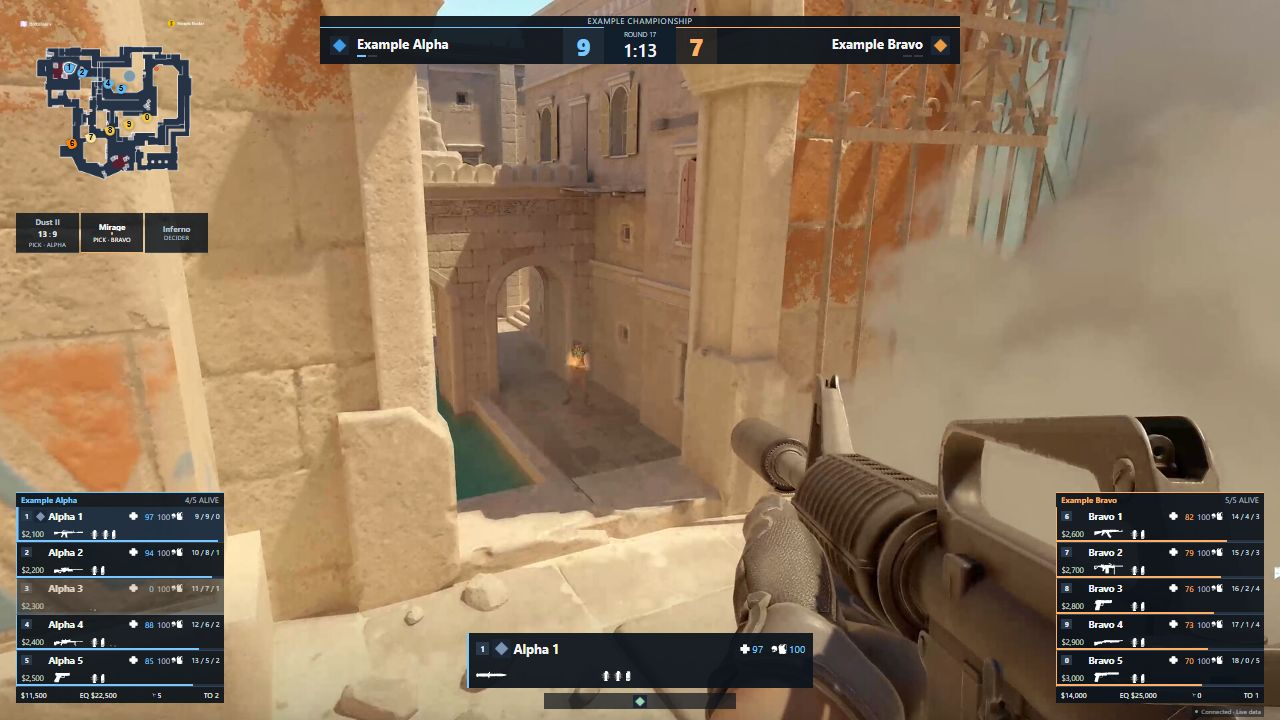
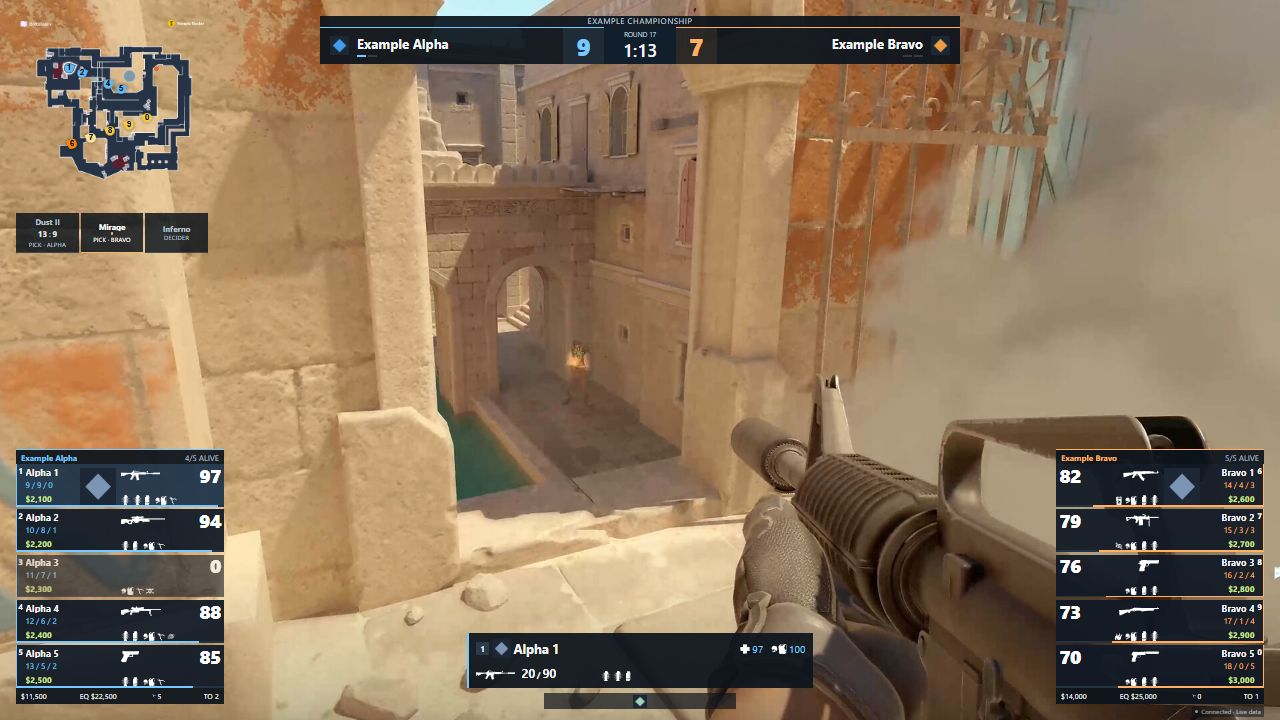
Mirror portrait player cards in HUD 0.4.9

Changed region(s): [[0.8125, 0.6111, 1.0, 0.9778], [0.0, 0.6111, 0.1875, 0.9778], [0.375, 0.9167, 0.4375, 0.9472]]

diff --git a/src/BasicHud/wwwroot/hud.css b/src/BasicHud/wwwroot/hud.css
@@ -61,35 +61,48 @@ html, body, #app { width: 100%; height: 100%; margin: 0; overflow: hidden; backg
 .history-round .status-icon { --icon-height: .75em; }
 .round-message { position: absolute; left: 37.5%; top: 13.518519%; width: 25%; height: 1.1em; background: var(--surface); text-align: center; font-size: .625em; line-height: 1.1; white-space: nowrap; overflow: hidden; text-overflow: ellipsis; }
 
-.roster { position: absolute; top: 68.333333%; width: 16.25%; height: 29.444444%; overflow: hidden; }
+.roster { position: absolute; top: 62.407407%; width: 16.25%; height: 35.37037%; overflow: hidden; }
 .roster.ct { left: 1.25%; }
 .roster.t { left: 82.5%; }
 .roster-heading { height: 1.145833em; padding: 0 .4em; display: flex; align-items: center; justify-content: space-between; gap: .6em; border-top: .1em solid var(--side); background: var(--surface); color: var(--side); }
 .roster-heading span { font-size: .625em; white-space: nowrap; overflow: hidden; text-overflow: ellipsis; }
 .roster-heading span:first-child { min-width: 0; font-weight: 700; }
 .roster-heading span:last-child { flex-shrink: 0; color: #afbdcd; }
-.live-player { position: relative; height: 2.8125em; padding: .15em .35em .2em; background: var(--surface); border-left: .13em solid var(--side); border-bottom: 1px solid #354253; }
-.live-player.is-observed { background: rgb(27 44 63 / 96%); box-shadow: inset .12em 0 var(--side); }
-.live-player-top, .live-player-bottom { height: 1.19em; display: grid; align-items: center; column-gap: .12em; min-width: 0; }
-.live-player-top { grid-template-columns: .85em 1em minmax(0, 1fr) 1.9em 2.25em 2.65em; }
-.live-player-top > *, .live-player-bottom > *, .observed-identity > *, .observed-loadout > * { min-width: 0; }
 .portrait-cell { display: grid; place-items: center; height: 100%; overflow: hidden; }
-.live-player-top .observer-slot { font-size: .55em; }
-.live-player-top .portrait { width: 1em; height: 1em; }
-.live-player-top .player-name { font-size: .75em; font-weight: 650; }
-.live-hp, .live-armor { display: grid; align-items: center; gap: .1em; font-size: .64em; }
-.live-hp { grid-template-columns: 1em minmax(0, 1fr); color: var(--side); }
-.live-armor { grid-template-columns: minmax(0, 1fr) 1.6em; color: #b1bfd0; }
-.live-hp > span:last-child, .live-armor > span:first-child { text-align: right; }
-.live-player-top .kda { font-size: .55em; overflow: hidden; text-align: right; }
-.live-player-bottom { grid-template-columns: 2.4em 2.3em minmax(0, 1fr); }
-.live-player-bottom > .loadout-details { margin-inline-start: .42em; }
-.live-player-bottom .money { font-size: .59em; overflow: hidden; }
 .weapon-cell { display: grid; align-items: end; justify-items: start; min-width: 0; overflow: hidden; height: 100%; }
-.live-player-bottom .roster-weapon { --icon-height: .9em; --icon-max-width: 2.3em; }
-.live-player-bottom .utility-icons { font-size: .68em; }
-.live-player-bottom .player-equipment { font-size: .58em; }
-.live-player-bottom .player-equipment, .observed-loadout .player-equipment { display: inline-flex; align-items: end; gap: .25em; }
+/* Mirrored roster cards: identity, portrait, then weapon/health and equipment. */
+.live-player { position: relative; display: grid; grid-template-columns: .55em 4.1em 2.85em minmax(0, 1fr); grid-template-areas: "slot identity portrait loadout"; gap: .12em; height: 3.333333em; padding: .1em .25em .15em 0; background: #101925ee; border-inline-start: .13em solid var(--side); overflow: hidden; }
+.live-player + .live-player { margin-top: .208333em; }
+.live-player.is-observed { background: #20354bf2; }
+.live-player.is-dead { opacity: .65; }
+.live-player > * { min-width: 0; }
+.card-slot { grid-area: slot; align-self: start; width: 100%; height: 1.15em; margin-top: .1em; background: transparent; color: #fff; font-size: .6em; }
+.card-identity { grid-area: identity; display: grid; grid-template-rows: 1fr 1fr 1fr; align-items: center; min-width: 0; }
+.card-identity .player-name { min-width: 0; overflow: hidden; text-overflow: ellipsis; white-space: nowrap; font-size: .72em; line-height: 1.1; font-weight: 750; }
+.card-stats { color: var(--side); font-size: .6em; line-height: 1.1; white-space: nowrap; font-variant-numeric: tabular-nums; }
+.card-money { color: #c9e591; font-size: .65em; line-height: 1.1; font-weight: 650; font-variant-numeric: tabular-nums; white-space: nowrap; }
+.card-portrait { grid-area: portrait; display: grid; align-items: end; height: 100%; min-width: 0; overflow: hidden; }
+.card-portrait .roster-portrait { display: block; width: 100%; height: 100%; max-height: 3.083333em; object-fit: contain; object-position: center bottom; border-radius: 0; }
+.card-loadout { grid-area: loadout; display: grid; grid-template-rows: 1.55em 1em; align-content: space-between; min-width: 0; margin-inline-start: .3em; }
+.card-armament { display: grid; grid-template-columns: minmax(0, 1fr) 2.5em; gap: .25em; align-items: center; min-width: 0; }
+.card-armament .weapon-cell { height: 1.15em; align-items: center; }
+.card-armament .roster-weapon { --icon-height: 1em; --icon-max-width: 3.8em; }
+.card-health { font-size: 1.5em; font-weight: 850; color: #fff; text-align: right; line-height: 1; letter-spacing: -.04em; font-variant-numeric: tabular-nums; white-space: nowrap; }
+.card-equipment { display: flex; align-items: end; gap: .4em; min-width: 0; height: 1em; }
+.card-status, .card-status .player-equipment { display: inline-flex; align-items: end; gap: .2em; min-width: 0; }
+.card-status { flex: 0 0 auto; font-size: .65em; }
+.card-armor { display: inline-flex; align-items: end; }
+.card-status .status-icon { --icon-height: 1em; --icon-max-width: 2em; }
+.card-equipment .utility-icons { --utility-height: .729167em; flex: 0 0 auto; }
+.roster.t .live-player { grid-template-columns: minmax(0, 1fr) 2.85em 4.1em .55em; grid-template-areas: "loadout portrait identity slot"; padding: .1em 0 .15em .25em; border-inline-start: 0; border-inline-end: .13em solid var(--side); }
+.roster.t .health-track span { margin-inline-start: auto; }
+.roster.t .card-identity { text-align: right; }
+.roster.t .card-loadout { margin-inline-start: 0; margin-inline-end: .3em; }
+.roster.t .card-armament { grid-template-columns: 2.5em minmax(0, 1fr); }
+.roster.t .card-armament .weapon-cell { grid-column: 2; grid-row: 1; justify-items: end; }
+.roster.t .card-health { grid-column: 1; grid-row: 1; text-align: left; }
+.roster.t .card-equipment, .roster.t .card-status, .roster.t .card-status .player-equipment { flex-direction: row-reverse; }
+.roster.t .card-equipment .utility-icons { flex-direction: row-reverse; }
 .roster-economy { height: 1.25em; display: grid; grid-template-columns: 1fr 1.25fr .55fr .6fr; align-items: center; gap: .3em; padding: 0 .4em; background: var(--surface); }
 .roster-economy span { display: inline-flex; gap: .15em; align-items: center; font-size: .58em; white-space: nowrap; }
 .roster-empty { background: var(--surface); padding: .8em; text-align: center; color: var(--muted); font-size: .7em; }
@@ -285,20 +298,20 @@ html, body, #app { width: 100%; height: 100%; margin: 0; overflow: hidden; backg
 .radar-unavailable { position: static; font-size: .64em; padding: .45em; }
 .bolt-flash { width: 100%; height: 100%; background: #fff; clip-path: polygon(15% 8%,40% 25%,50% 0%,60% 25%,85% 8%,74% 35%,100% 36%,78% 50%,100% 70%,72.5% 67%,77.5% 92.5%,60% 75%,50% 100%,40% 75%,22.5% 92.5%,27.5% 67%,0% 70%,22% 50%,0% 36%,26% 35%); box-shadow: inset 0 0 0 1.2px #fc9f2d,inset 0 0 3.5px #fea130; }
 
-.live-hp .status-icon, .live-armor .status-icon, .observed-vitals .status-icon { --icon-height: 1em; }
+.observed-vitals .status-icon { --icon-height: 1em; }
 .player-equipment .status-icon { --icon-height: 1em; }
 .roster-economy .status-icon { --icon-height: 1em; }
 
-.live-player-bottom { align-items: flex-end; }
-.live-player-bottom .utility-icons { --utility-height: min(.729167vw, 1.296296vh); }
+
+
 .observed-loadout { align-items: flex-end; }
 .radar-bomb { display: flex; align-items: center; justify-content: center; }
 
 /* Fixed outer areas; related equipment remains a compact contiguous group. */
-.live-player-bottom .player-equipment > *, .observed-loadout .player-equipment > * { --icon-max-width: 100%; }
+.observed-loadout .player-equipment > * { --icon-max-width: 100%; }
 .roster-economy span { min-width: 0; overflow: hidden; }
 .roster-economy span:last-child { justify-content: end; }
-.live-hp > span, .live-armor > span, .observed-vitals > span > span:last-child { min-width: 0; overflow: hidden; white-space: nowrap; }
+.observed-vitals > span > span:last-child { min-width: 0; overflow: hidden; white-space: nowrap; }
 
 .loadout-details { display: flex; align-items: end; gap: .4em; min-width: 0; height: 100%; }
 .utility-icons:empty, .player-equipment:empty { display: none; }

diff --git a/README.md b/README.md
@@ -10,20 +10,20 @@ The screenshot shows the actual packaged renderer with synthetic HUD data in an 
 
 ## Install and use
 
-1. Download `sou-basic-wasm-0.4.8.souhud` and its SHA-256 file from [Releases](https://github.com/getsOU/sOU-HUD-WASM/releases).
+1. Download `sou-basic-wasm-0.4.9.souhud` and its SHA-256 file from [Releases](https://github.com/getsOU/sOU-HUD-WASM/releases).
 2. In the [sOU desktop app](https://www.getsou.app/get-sou), choose **HUDs → Paket importieren**, select the package and install it.
 3. Select the HUD and **Ansicht**, then copy the address for an OBS Browser Source or open the CS2 output. Use **1920 × 1080** and a transparent browser background. Use sOU's actual address rather than guessing the local port.
 4. Open its **Panel** and save/apply any captions, scene choices, references or images. All Hide checkboxes are unchecked by default: components stay enabled unless explicitly hidden.
 5. Supply CS2/HLAE data through sOU's normal setup. Optional data can remain absent; the HUD does not create missing players, game events or statistics.
 
-The stable package ID remains `sou-basic-wasm`; the current version is **0.4.8**, protocol v2. Select the new version and reopen outputs after installing. Caption/Hide fields and all eight views remain compatible. Previous releases and already running outputs are unchanged.
+The stable package ID remains `sou-basic-wasm`; the current version is **0.4.9**, protocol v2. Select the new version and reopen outputs after installing. Caption/Hide fields and all eight views remain compatible. Previous releases and already running outputs are unchanged.
 
 [Changelog](CHANGELOG.md) · [Eight output views](docs/views.md) · [All panel fields](docs/panel.md) · [Feature/source matrix and limits](docs/features.md) · [Public author guide](https://www.getsou.app/docs/hud-entwicklung)
 
 ## What's implemented
 
 - A single clear match header: real current-side team names/logos, large round scores, actual source timer and central round/state label. One explicit caption or competition name; no raw map/phase diagnostic strip. Series-win marks stay attached to their actual teams.
-- Compact two-line live rosters with observer digits, small optional portraits, HP/armor, real weapon silhouettes, utility/equipment/status icons, money and K/D/A. The complete inventory, round damage/kills and recorded metrics remain in presentation/statistics views.
+- Compact mirrored live roster cards with observer digits, central optional portraits, HP/armor, real weapon silhouettes, utility/equipment/status icons, money and K/D/A. The complete inventory, round damage/kills and recorded metrics remain in presentation/statistics views.
 - Actual observed player with active/reloading weapon, firearm ammunition and utility icons. Dead players show no stale current weapons or inventory; an alive player without an active weapon has an empty weapon area. In the observer, holstered equipment is never substituted for an active weapon. Roster rows instead show carried primary firearm, otherwise pistol, otherwise knife, independently of held state. A genuinely supplied unknown active weapon keeps its own fallback. No grenade ammo fractions are invented.
 - Per-side complete-or-unknown economy in the roster footer, with full alive/kit/utility/timeouts/loss-streak detail in statistics; numbered recent round results appear only during freeze, pause, timeout or intermission; active rounds including bomb/defuse remain clear. The statistics view retains the complete supplied history.
 - Real HLAE killfeed, keyed by connection/epoch/event ID, with all supplied modifier flags; no kills inferred from health changes.
@@ -34,7 +34,7 @@ The stable package ID remains `sou-basic-wasm`; the current version is **0.4.8**
 
 Missing values remain `—`. Team A is never assumed CT. Unknown health is not treated as death. The observed card never substitutes the local/menu player. No invented MVP, clutch, overtime, score, map geometry, player photo, win probability or source event is supplied. The [matrix](docs/features.md) identifies each real source and limitation.
 
-The 1920×1080 live composition reserves the central game area (x360–1560, y160–930). The score header is 960×72; the radar is 288×288; each bottom-corner roster is at most 312×318 including five 54px rows and its economy footer; the observer card is 520×82. The whole composition scales proportionally in smaller or wider windows. Missing live portraits/logos consume no placeholder box; presentation scenes retain their neutral fallbacks. Only an explicit lower-third production action crosses the reserved game area.
+The 1920×1080 live composition reserves the central game area (x360–1560, y160–930). The score header is 960×72; the radar is 288×288; each bottom-corner roster is at most 312×382 including five 64px rows and its economy footer; the observer card is 520×82. The whole composition scales proportionally in smaller or wider windows. Missing live portraits/logos consume no placeholder box; presentation scenes retain their neutral fallbacks. Only an explicit lower-third production action crosses the reserved game area.
 
 ## Build, test and package
 
@@ -47,8 +47,8 @@ pwsh ./scripts/Build.ps1
 The script performs locked restore, restores the public `SOU.Hud.Tool`, verifies formatting, runs focused model/lifecycle/metadata tests and actual Razor image-error event checks, publishes Release WASM, packs and validates the HUD and writes a checksum:
 
 ```text
-artifacts/sou-basic-wasm-0.4.8.souhud
-artifacts/sou-basic-wasm-0.4.8.souhud.sha256
+artifacts/sou-basic-wasm-0.4.9.souhud
+artifacts/sou-basic-wasm-0.4.9.souhud.sha256
 ```
 
 Existing output directories/packages are never overwritten. Repeat in a fresh directory:
@@ -150,3 +150,9 @@ The killfeed keeps complete names and all currently visible events without a six
 ## Roster inventory priority (0.4.8)
 
 Roster rows show the carried primary firearm (rifle, sniper rifle, SMG, shotgun or machine gun), otherwise pistol, otherwise knife. Holding a knife or grenade does not hide a carried firearm. Dropping a weapon updates this selection. Dead players and absent/empty inventories show no weapon; unknown categories are not guessed. The observer continues to show the active/reloading weapon. A dedicated gutter separates the weapon from the compact utility group; two flashbangs still use two original icons.
+
+## Mirrored portrait player cards (0.4.9)
+
+The left roster places the observer slot and a three-line name / K-D-A / cash block on the outside, an optional portrait in the middle, and the carried weapon beside large white health digits on the inside. Compact utility and armor/kit/bomb/status icons occupy a separate row below the weapon, with a clear vertical gap. The right roster mirrors these areas without reversing text or original artwork. Armor values remain available in the icon title and accessible label; extended player details are in the presentation views.
+
+The 1920 × 1080 layout uses 312 × 64 pixel cards with 4 pixel gaps inside a 312 × 382 roster at y674. Missing or failed portraits leave the same empty image area without fallback artwork. Long names truncate within the name cell; values, portraits and inventories do not move adjacent regions. Weapon priority, repeated grenade icons and the complete chronological killfeed remain unchanged. Import 0.4.9 and reopen outputs.

diff --git a/scripts/release-notes.md b/scripts/release-notes.md
@@ -1,7 +1,5 @@
-# 0.4.8
+# 0.4.9
 
-Player rosters show the carried primary firearm, otherwise pistol, otherwise knife, regardless of the held weapon. Dropped weapons immediately leave the selection. Dead players and missing inventories remain empty; unclassified weapons are not guessed into an inventory category. The observer still shows the active/reloading weapon.
+Mirrored player cards: name / K-D-A / cash on the outside, a larger portrait in the middle, carried weapon and large health digits on the inside. Utility and equipment stay together on a separate lower line with a clear gap from the weapon. Missing portraits remain empty without moving neighboring data.
 
-A separate gutter keeps the weapon silhouette clear of compact utility. Repeated grenade icons, fixed outer data areas and the complete chronological killfeed remain unchanged.
-
-Import 0.4.8 and reopen outputs. All eight views and compatible panel settings remain available. SDK and artwork are unchanged. Browser checks do not replace native CS2/OBS acceptance.
+Primary → pistol → knife selection, the active-weapon observer, repeated grenade icons and complete chronological killfeed are retained. All eight views and compatible panel settings remain available. Import 0.4.9 and reopen outputs. SDK and original artwork are unchanged. Browser verification does not replace native CS2/OBS acceptance.

diff --git a/CHANGELOG.md b/CHANGELOG.md
@@ -1,5 +1,11 @@
 # Changelog
 
+## 0.4.9
+
+- Mirror the two roster layouts around larger central portraits.
+- Separate name / K-D-A / cash, carried weapon with large health digits, and a compact utility/status row.
+- Keep stable areas for absent images, inventory changes and bounded long names; retain all previous equipment and killfeed behavior.
+
 ## 0.4.8
 
 - Show carried primary firearm, otherwise pistol, otherwise knife in roster rows, independently of the observer held weapon.
